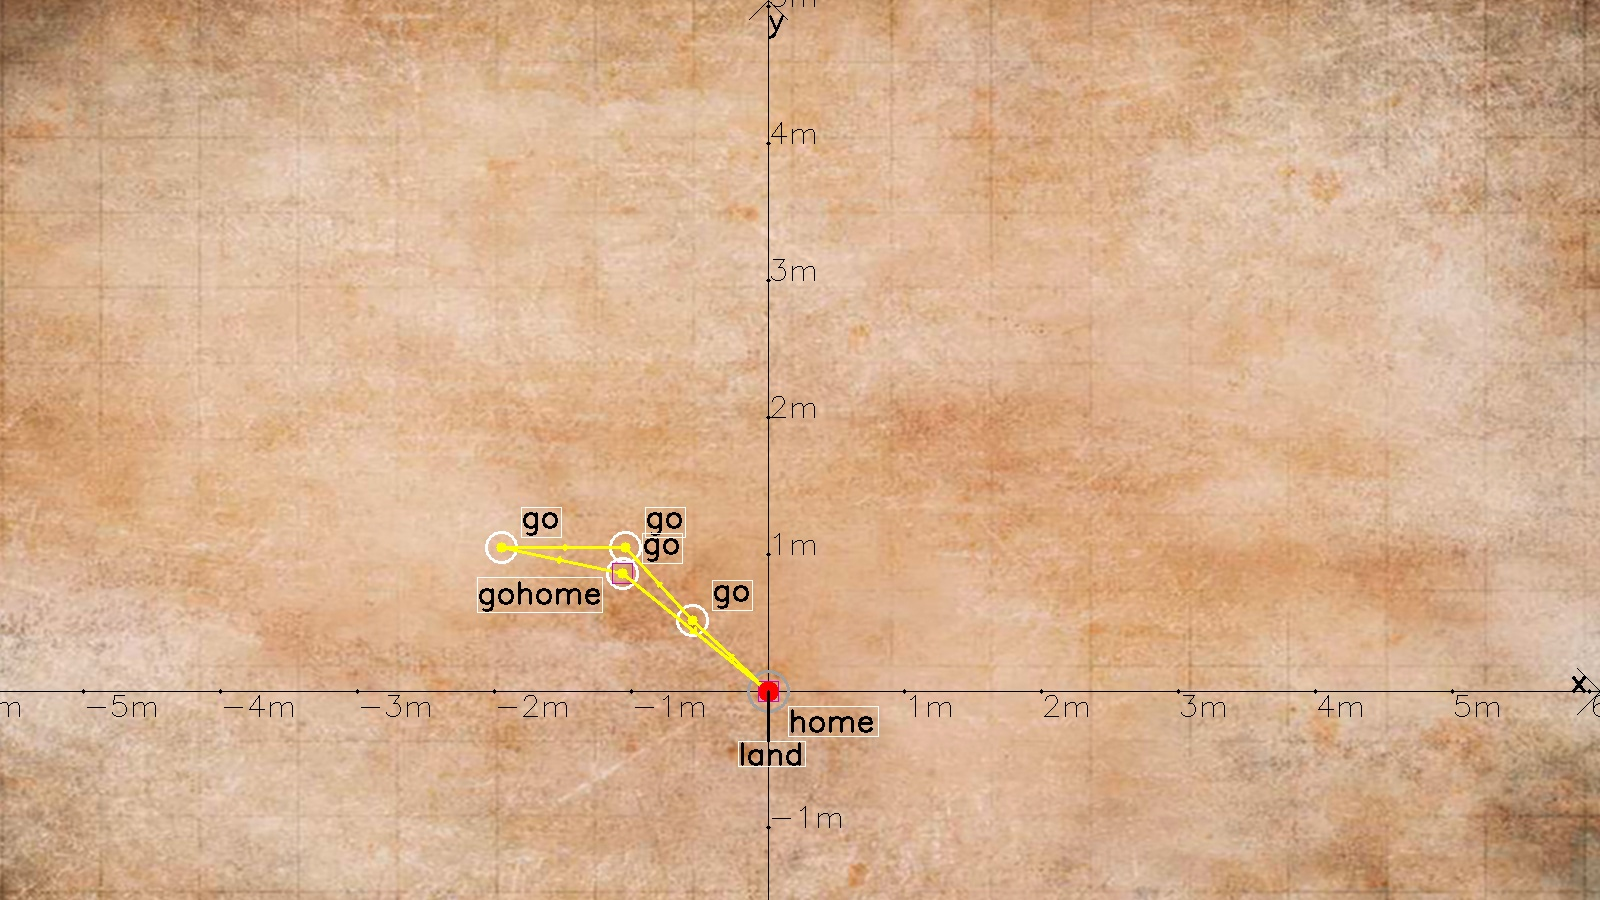
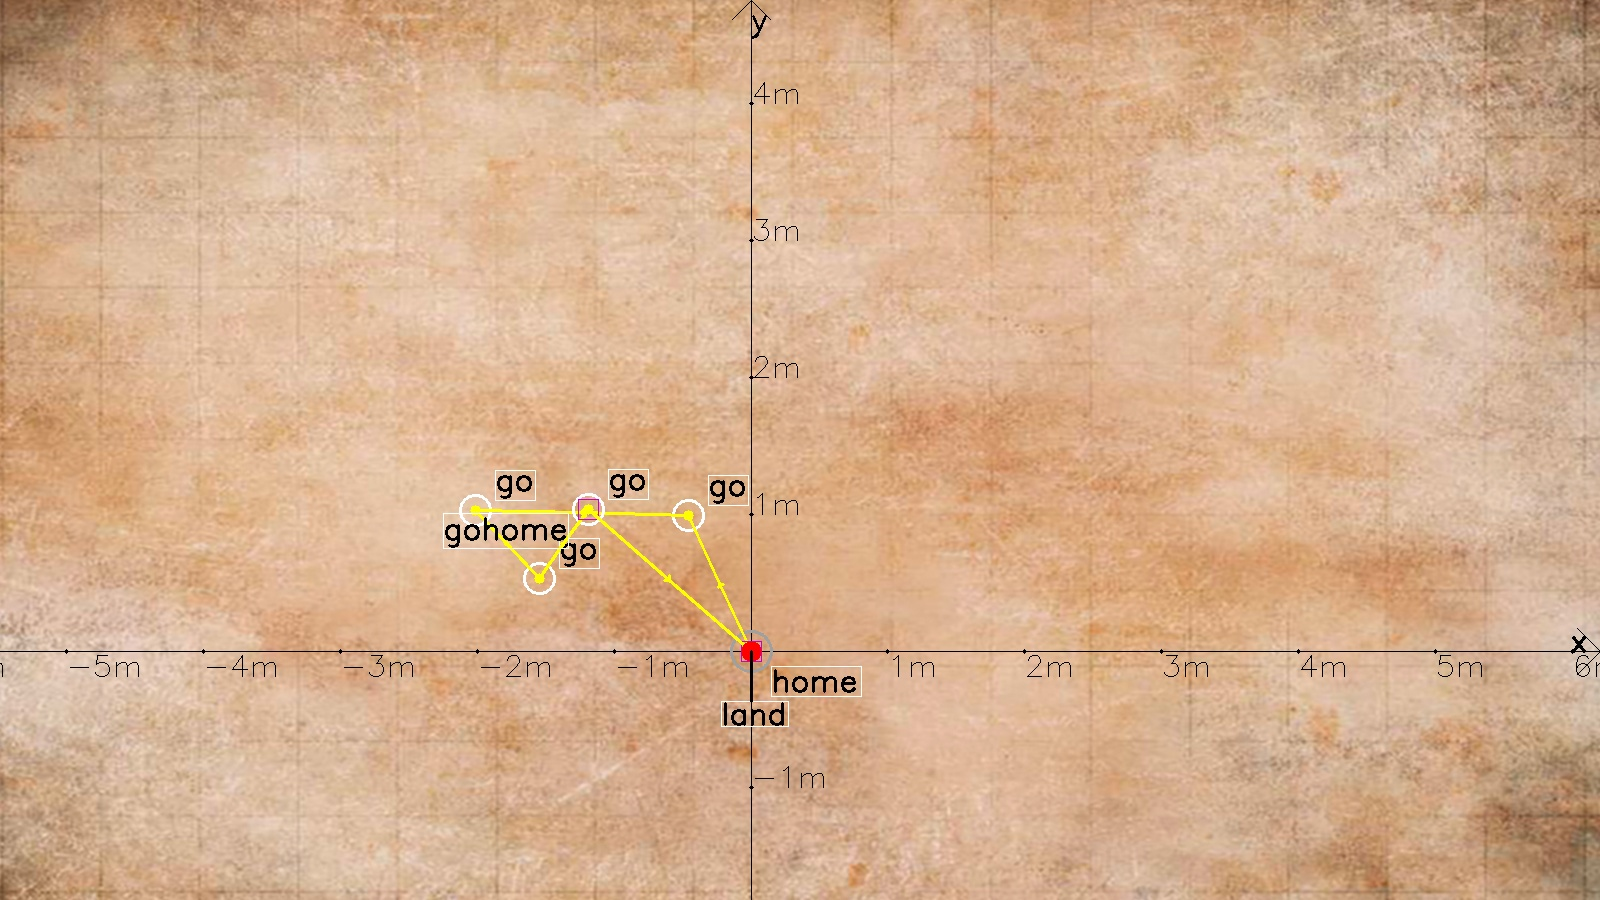
v3.01重新调整pid偏航优化

diff --git a/mapcom.py b/mapcom.py
@@ -55,8 +55,8 @@ class Mapcom:
         self.state=None
         #pid
         self.tpid=0
-        self.pid_yaw=PID(1.5,1,0,setpoint=0,output_limits=(-50,50))#准确度还行，就是有点回弹
-        self.pid_thro=PID(1.5,0.5,0.1,setpoint=0,output_limits=(-50,50))#准确度还行，就是有点回弹,恢复速度有点慢
+        self.pid_yaw=PID(2,1.8,0,setpoint=0,output_limits=(-50,50))#准确度还行，就是有点回弹
+        self.pid_thro=PID(1.5,1.4,0.1,setpoint=0,output_limits=(-50,50))#准确度还行，就是有点回弹,恢复速度有点慢
         self.pid_pith=PID(0.2,0.01,0.2,setpoint=0,output_limits=(-20,20))
         self.pid_roll= PID(1,0,0,setpoint=0,output_limits=(-20,20))
         #读进来的未经处理坐标值
